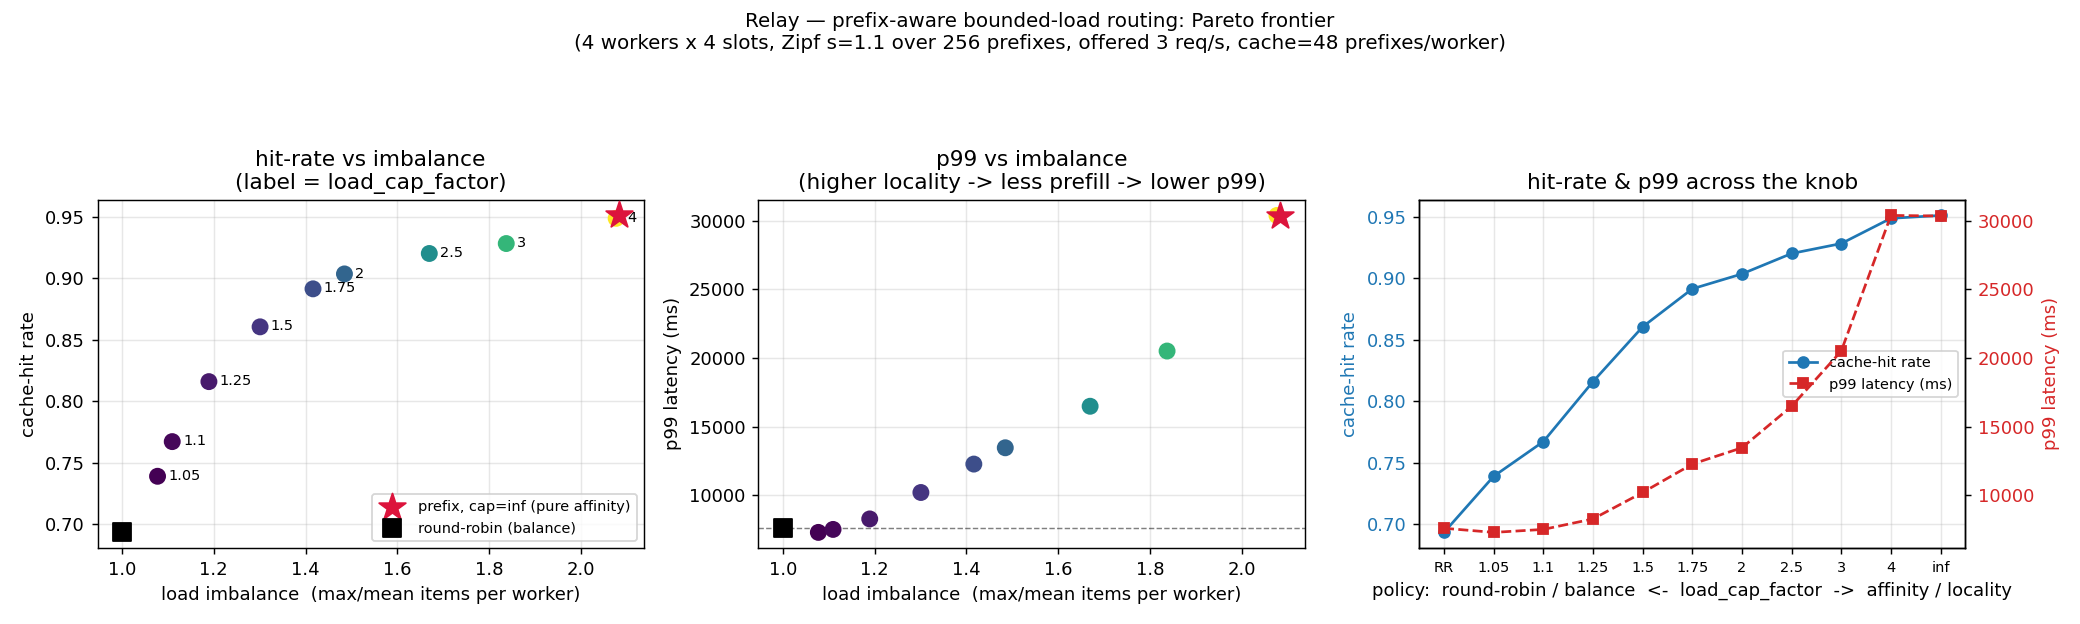
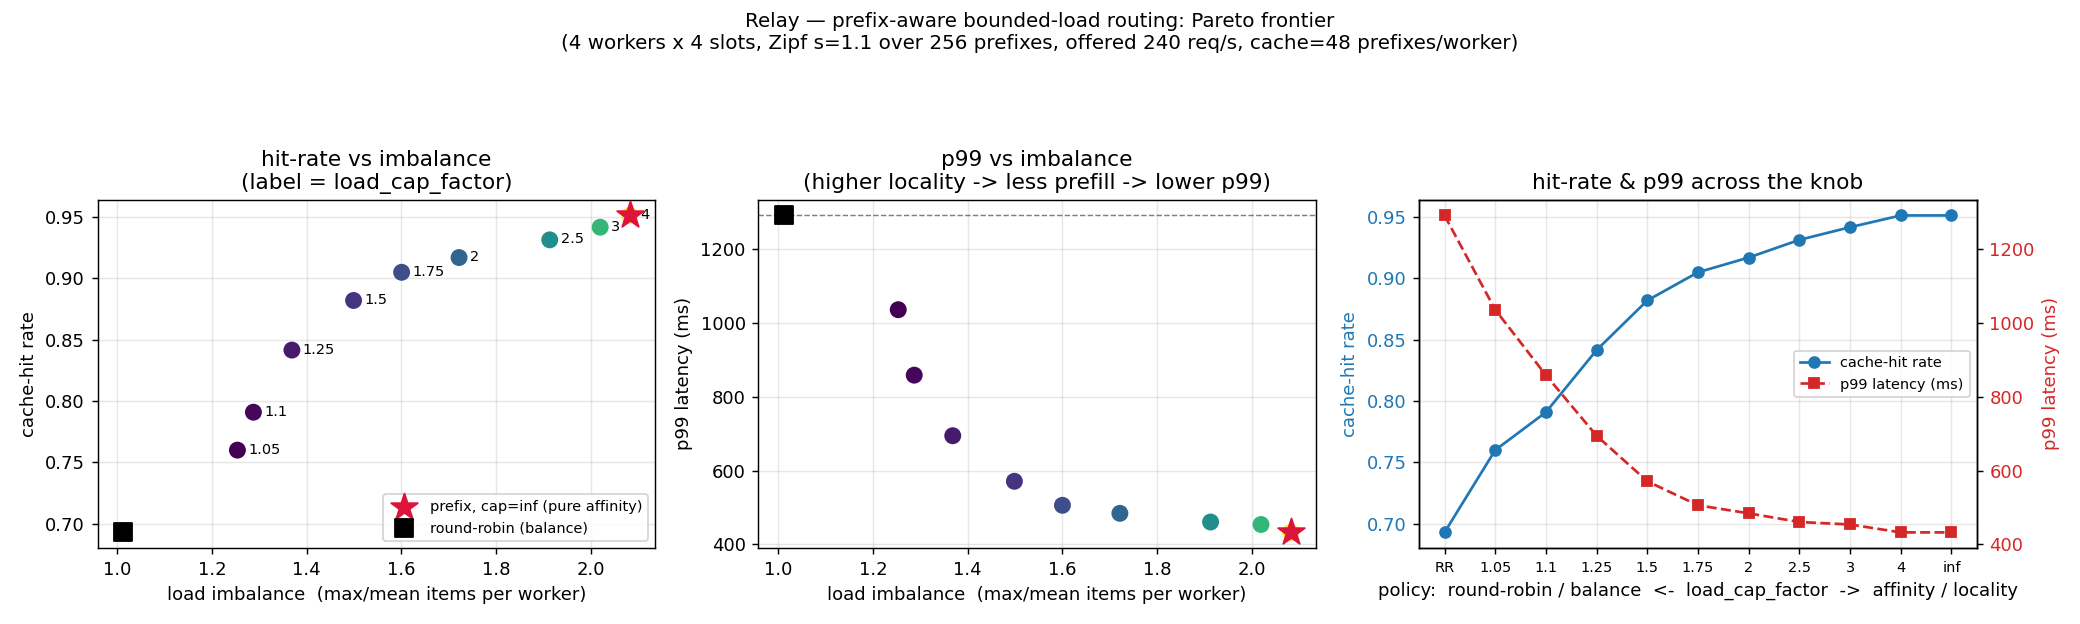
README: lead with measured crossover (530 ± 58 tok); frontier as synthetic support

diff --git a/README.md b/README.md
@@ -1,64 +1,96 @@
 # Relay
-<<<<<<< HEAD
 
-A GPU inference-serving **control plane**: queue → schedule → batch → place → observe → autoscale. The lead feature is **prefix / KV-cache-aware routing under bounded load** — steering same-prefix requests to the same worker to reuse its KV cache, balanced by bounded-load consistent hashing so a hot prefix can't pin one worker. One knob (`load_cap_factor`) sweeps the whole policy space from pure cache affinity to round-robin, and the headline artifact is the **Pareto frontier** that knob traces between cache locality, load balance, and tail latency.
+A GPU inference-serving **control plane**: queue → schedule → batch → place → observe → autoscale. The lead feature is **prefix / KV-cache-aware routing under bounded load** — steering same-prefix requests to the worker that already holds their KV cache, balanced by **bounded-load consistent hashing** so a hot prefix can't pin one worker. One knob, `load_cap_factor`, sweeps the whole policy space from pure cache affinity to round-robin.
 
-Full design rationale, ADRs, and the one-month build plan are in [`DESIGN.md`](DESIGN.md).
+Design rationale, ADRs, and the decision records are in [`DESIGN.md`](DESIGN.md).
 
-## Headline result (real, reproducible, no GPU)
+## Headline result: *when* does cache-aware routing beat load balancing?
 
-Produced by the in-process virtual-time simulator (`bench/simulate.py`) over 30,000 requests with a calibrated cache-aware latency model, 4 workers, and a finite-Zipf (s=1.1) workload over 256 shared prefixes. Sweeping `load_cap_factor` from pure affinity toward round-robin:
+Cache-aware routing is not free — it trades **load balance** for **saved prefill**. So the real question isn't "is it faster" but "under what conditions." Relay answers it with a measured number.
+
+**Crossover ≈ 530 ± 58 shared-prefix tokens** (95% CI, 10/10 seeds crossed). Below it, decode dominates and plain round-robin wins; above it, prefill dominates and routing to the cached worker wins.
+
+Per-token costs are **measured on real hardware** — an Apple M2 (8 GB) serving `qwen2.5:0.5b` via Ollama, read from llama.cpp's own timing fields: **decode 30.4 ms/token, prefill 1.3 ms/token** (decode is ~23× costlier per token, which is the fact the crossover hinges on). The routing itself is **simulated** (virtual-time discrete-event sim driving the real router); the rates are real, the routing is modeled, and that line is not blurred anywhere in this repo.
+
+![Crossover and the locality/balance cost, mean ± 95% CI over 10 seeds](bench/results/crossover.png)
+
+| shared-prefix tokens | prefill (ms) | round-robin p99 | best-prefix p99 | speedup (95% CI) | winner |
+|---|---|---|---|---|---|
+| 128 | 168 | 5539 ms | 6899 ms | **0.80 ± 0.02×** | round-robin |
+| 256 | 337 | 5395 ms | 6217 ms | 0.87 ± 0.03× | round-robin |
+| **512** | 674 | 5617 ms | 5614 ms | **1.00 ± 0.02×** | **crossover** |
+| 1024 | 1348 | 6285 ms | 5691 ms | 1.11 ± 0.02× | prefix |
+| 2048 | 2695 | 7539 ms | 6489 ms | 1.16 ± 0.03× | prefix |
+| 4096 | 5390 | 10259 ms | 8891 ms | 1.16 ± 0.03× | prefix |
+| 8192 | 10781 | 16981 ms | 14570 ms | 1.17 ± 0.02× | prefix |
+
+- The **regimes are statistically real, not noise**: at 128 tokens the speedup CI sits entirely below 1.0 (round-robin genuinely wins); at 8192 it sits entirely above 1.0 (prefix genuinely wins). The error bars not straddling 1.0 are what license the claim that the technique *flips*.
+- The crossover is the *derived* quantity, so it gets its own CI: interpolated per seed, then aggregated → **530 ± 58 tokens**, and it appeared in **every** replicate (10/10), so the crossover is a phenomenon, not a seed artifact.
+- The **cost side is visible in the same run**: as prefix length grows, affinity buys cache hits (**0.82 → 0.95**) by spending load balance (**imbalance 1.15 → 2.07**), while round-robin stays flat at ~1.0. That trade *is* the mechanism.
+
+The takeaway is the *condition*, not the number: KV-cache-aware routing earns its imbalance cost only once the shared prefix is long enough that prefill is the bottleneck — the RAG / shared-system-prompt regime. On short chat prompts it is a net loss, and a router should load-balance there. Reproduce: `PYTHONPATH=. python bench/crossover.py` (reads `bench/results/calibration.json`; `--seeds N`, `--output-tokens K`). Full data + CIs: [`bench/results/CROSSOVER.md`](bench/results/CROSSOVER.md).
+
+## The mechanism
+
+A consistent-hash ring with virtual nodes (`relay_core/hashing.py`) maps each prefix to an ordered worker preference list; adding/removing a worker remaps only O(K/N) keys, so an autoscale event doesn't cold-flush every cache. The router (`services/scheduler/router.py`) walks the ring from the prefix's position and takes the first worker under a load cap proportional to the live fleet average:
+
+```python
+cap = cap_factor * max(avg_load, 1.0)        # one knob; ∞ = pure affinity, →1 = round-robin
+for wid in ring.walk(prefix_hash):           # affinity owner first, then spillover order
+    if load(w) < cap and admit(w):
+        return w
+```
+
+A structural bonus falls out for free: a hot prefix that overflows its owner always spills to the *same* ring successor, so the successor's cache warms too — bounded replication of hot prefixes, no extra code. Bounded-load consistent hashing is Google's published technique; the contribution here is applying it to KV-cache routing and measuring when it pays.
+
+## Supporting result: the locality/balance Pareto frontier
+
+Sweeping `load_cap_factor` over a **synthetic latency model** (30,000 requests, 4 workers, finite-Zipf s=1.1 over 256 shared prefixes) traces the full trade the crossover samples one slice of:
 
 | policy | cap | cache-hit | p99 | load imbalance |
 |---|---|---|---|---|
-| round-robin | — | **69.1%** | **1436 ms** | 1.01× |
-| bounded (knee) | 1.5 | **88.4%** | **559 ms** | 1.47× |
-| pure affinity | ∞ | **95.1%** | **440 ms** | 2.08× |
+| round-robin | — | 69.3% | 1292 ms | 1.01× |
+| bounded (knee) | 1.5 | 88.2% | 571 ms | 1.50× |
+| pure affinity | ∞ | 95.1% | 433 ms | 2.08× |
 
-- Cache-hit rate climbs from **69% → 95%** as routing shifts from balance to affinity.
-- p99 latency drops **3.3×** (1436 → 440 ms) — cache hits skip the ~160 ms prefill.
-- The cost is load imbalance (1.01× → 2.08×), the other axis of the frontier.
-- **Recommended operating point — the knee at `load_cap_factor = 1.5`:** 88% hit-rate and a **2.6×** p99 reduction for only 1.47× imbalance.
+Across the sweep, cache-hit climbs **69% → 95%** and p99 drops **~3×** (1292 → 433 ms) as routing shifts from balance to affinity, paid for in load imbalance (1.01× → 2.08×). The knee at `cap = 1.5` captures most of the latency win for far less imbalance — the practical operating point. This frontier uses the *synthetic* calibration (illustrative shape); the crossover above is the *measured-rate* result (the honest generalization). Regenerate with `make calibrate && make bench`. Full sweep + per-worker breakdown: [`bench/results/RESULTS.md`](bench/results/RESULTS.md).
 
-![Pareto frontier](bench/results/frontier.png)
+## How the numbers were produced
 
-Full sweep, per-worker locality breakdown, exact setup, and a documented negative finding are in [`bench/results/RESULTS.md`](bench/results/RESULTS.md).
+- **A simulator that runs the real code.** `bench/simulate.py` imports the production router and deadline batch former *unchanged* and drives them over a virtual clock — open-system Poisson arrivals, warmup excluded, so p99 is meaningful and a 30k-request sweep finishes in seconds.
+- **A workload that doesn't cheat.** Prefix routing does nothing on uncorrelated prompts. Traffic is a finite Zipfian pool of shared prefixes (exact inverse-CDF; reported skew is the real skew), with pool size, skew, and prefix/suffix lengths all disclosed.
+- **Calibration from the engine's own mouth.** Per-token costs come from llama.cpp's `prompt_eval_duration` / `eval_duration` fields on the M2 — not a guess. The fixed per-request overhead `alpha` is a clean constant, *not* the noisy fitted intercept (which on an 8 GB box under load is mostly thrashing artifact); that choice is stated in the output.
 
-> **A negative result worth keeping.** Forming batches globally and then routing by the batch head's prefix yields *no* locality — a globally-formed batch mixes prefixes, so whichever worker takes it must prefill all of them. Locality only materializes when routing happens **per request at admission** into per-worker queues, which is how production prefix-aware schedulers (SGLang, vLLM-router) are organized. That is the topology measured here.
+## What went wrong (kept on purpose)
+
+- **A reproducible null result.** The first topology formed batches globally then routed by the batch head's prefix → cache-hit identical across every policy, because a globally-formed batch mixes prefixes, so routing it only changes *which* worker pays the prefill, not *whether* it's paid. Fix: route per request at admission into per-worker queues, each worker batching its own queue — the topology SGLang's router and the vLLM Router use. Details in [`bench/results/RESULTS.md`](bench/results/RESULTS.md).
+- **A calibration bug worth ~200×.** The first Ollama calibration faked "a batch of b" with b concurrent HTTP requests; on single-slot Ollama those serialize, and the fit misread queueing as a 1,710 ms per-item decode cost (53-minute p99s — an unstable queue, not a result). Fix: read the engine's real per-token timing fields and derive the constants, unit-tested against canned timings to R²=1.0.
 
 ## What runs where
 
-This is a deliberately month-scale distributed-systems project. The parts split into three honesty tiers:
+Three honesty tiers:
 
-**Runs now, locally, for free (no GPU, no services):**
-- The entire algorithmic core: consistent-hash ring, prefix router, deadline batch former, cache-aware + plain mock engines, Zipfian workload, calibration, and the benchmark sweep that produces the frontier above.
-- The full unit suite (64 tests).
+**Runs now, locally, free (no GPU, no services):** the entire algorithmic core — consistent-hash ring, prefix router, deadline batch former, cache-aware + plain mock engines, Zipfian workload, calibration, and the sweeps that produce both results above — plus the full unit suite (75 tests).
 
 ```bash
-make install        # core + bench deps (numpy, matplotlib, pandas, scipy)
-make test           # 64 unit tests, ~2s
-make bench          # produces bench/results/{frontier.csv,frontier.png,RESULTS.md}
-make bench-quick    # faster 8k-request smoke sweep
-make calibrate      # fits MockEngine alpha/beta (synthetic if no Ollama)
+make install        # core + bench deps (numpy, matplotlib, pandas)
+make test           # 75 unit tests, ~1s
+make bench          # Pareto sweep        → bench/results/{frontier.csv,png,RESULTS.md}
+make calibrate      # fit latency constants (add --ollama for real hardware)
+PYTHONPATH=. python bench/crossover.py    # seed-replicated crossover → crossover.{csv,png}, CROSSOVER.md
 ```
 
-**Written faithfully, needs external services to stand up (Redis, Postgres, gRPC):**
-- Gateway (FastAPI: `/v1/infer`, `/v1/jobs/{id}`, SSE stream, `/v1/models`, `/healthz`, `/readyz`, `/metrics`; Bearer auth; atomic Redis-Lua token-bucket rate limiting; idempotency keys).
-- Scheduler (gRPC server, admission/backpressure, Redis-Streams queue with `XAUTOCLAIM` recovery, dispatch over worker lease streams).
-- Worker harness (pull-based gRPC leasing → backpressure) and the Ollama / Torch-MPS engines.
-- One-command local stack and a k3d/Helm deploy:
+**Written faithfully, needs external services (Redis, Postgres, gRPC):** gateway (FastAPI: `/v1/infer`, `/v1/jobs/{id}`, SSE stream, `/v1/models`, `/healthz`, `/readyz`, `/metrics`; Bearer auth; atomic Redis-Lua token-bucket; idempotency keys); scheduler (gRPC server, admission/backpressure, Redis-Streams queue with `XAUTOCLAIM` recovery, dispatch over worker lease streams); worker harness (pull-based gRPC leasing → backpressure) and the Ollama / Torch-MPS engines.
 
 ```bash
 make compose-up     # redis + postgres + scheduler + gateway + 4 mock workers + prometheus + grafana
-# Grafana at :3000 (anon admin), Prometheus at :9090, gateway at :8080
 make helm-install   # deploy to a k3d cluster; workers autoscale on queue depth
 make proto          # generate gRPC stubs (buf) into services/_gen before running services live
 ```
 
-The heavy imports (FastAPI, redis, asyncpg, grpc, torch) are deferred behind graceful fallbacks, so every module still imports without those packages — that is why `make test` runs anywhere.
+Heavy imports (FastAPI, redis, asyncpg, grpc, torch) are deferred behind graceful fallbacks, so every module imports without those packages — that is why `make test` runs anywhere.
 
-**CUDA-only validation step (rented multi-GPU box):**
-- `VLLMEngine` confirms the prefix-routing win on a *real* KV cache and produces the real tokens/s number. Same `Engine` interface, so only the worker image changes. vLLM's prefix-caching flags and cache-hit metric names drift between versions and are marked "verify on arrival" in the code (`services/worker/engines/vllm.py`). Per the design doc, this step only *confirms* the result — it never *produces* it.
+**CUDA-only validation step (rented multi-GPU box, optional):** `VLLMEngine` would confirm the routing win on a *real* KV cache and produce real tokens/s. Same `Engine` interface, so only the worker image changes. Kept optional and conditional — it raises confidence in the simulator's eviction/batching assumptions; it does not produce the result. The cost/benefit is recorded in [`DESIGN.md`](DESIGN.md).
 
 ## Architecture
 
@@ -76,36 +108,45 @@ The heavy imports (FastAPI, redis, asyncpg, grpc, torch) are deferred behind gra
                                   Grafana   +   HPA (autoscales workers on relay_queue_depth)
 ```
 
-- **Routing depth** lives in `services/scheduler/router.py` + `relay_core/hashing.py`.
-- **Batching** in `services/scheduler/batch_former.py` (priority = a tighter latency budget; provable no-starvation bound).
-- **Autoscaling** on the custom `relay_queue_depth` metric (not CPU) via prometheus-adapter — `deploy/k8s/prometheus-adapter.yaml`, `deploy/helm/relay/templates/worker.yaml`.
-- **Metrics** named once in `relay_core/metrics.py` (DESIGN.md §15), instrumented from the start.
+- **Routing depth**: `services/scheduler/router.py` + `relay_core/hashing.py`.
+- **Batching**: `services/scheduler/batch_former.py` (priority = a tighter latency budget; no-starvation dispatch trigger).
+- **Autoscaling** on the custom `relay_queue_depth` metric (not CPU) via prometheus-adapter.
+- **Metrics** named once in `relay_core/metrics.py`, instrumented from the start.
 
 ## Repo map
 
 ```
-relay_core/         types, hashing ring, queue, metrics  (the shared, transport-agnostic core)
+relay_core/         types, hashing ring, queue, metrics  (shared, transport-agnostic core)
 services/
   gateway/          FastAPI app, schemas, token-bucket limiter, Redis backplane
   scheduler/        router, batch former, admission, dispatch, Redis-Streams queue, gRPC server
   worker/           harness + engines/{mock, cache_aware_mock, ollama, torch_mps, vllm}
 proto/relay/v1/     worker.proto (buf lint/breaking in CI)
-bench/              workload, calibrate, simulate, run  →  results/ (frontier + RESULTS.md)
+bench/              workload, calibrate, simulate, run, crossover  →  results/
 deploy/             compose/, postgres/, redis/, helm/relay/, k8s/ (HPA + prometheus-adapter)
-dashboards/         relay.json (Grafana, keyed to the §15 metric names)
-tests/unit/         64 tests covering ring, router, former, engines, workload, limiter, admission
+dashboards/         relay.json (Grafana, keyed to the metric names)
+tests/unit/         75 tests: ring, router, former, engines, workload, limiter, admission
 ```
 
 ## Tests
 
 ```bash
-make test           # PYTHONPATH=. python -m pytest tests/unit -q  →  64 passed
+make test           # PYTHONPATH=. python -m pytest tests/unit  →  75 passed
 ```
 
-The unit suite pins the properties the result depends on: the ring's minimal-disruption guarantee, the router's affinity-vs-spill behaviour across the cap, the former's no-starvation dispatch trigger, the cache engine's exact hit/miss latency law, and the workload's distribution and prefix-hash stability.
+The suite pins the properties the result depends on: the ring's minimal-disruption guarantee, the router's affinity-vs-spill behaviour across the cap, the former's no-starvation dispatch trigger, the cache engine's exact hit/miss latency law, and the workload's distribution and prefix-hash stability.
 
-## Status
+## Limitations
 
-The core algorithmic result is built, executed, and verified with real artifacts. The surrounding gateway/scheduler/worker/proto/deploy are substantive, faithful implementations of `DESIGN.md`; standing them up live requires Redis/Postgres/gRPC (local) and a CUDA box (vLLM validation), per the tiers above.
-=======
->>>>>>> 73566137212b68f57b1b1cea0be83a6d59bec08b
+1. **The routing benefit is simulated.** Latency is calibrated to real M2 rates, but multi-worker routing hasn't run against a real engine with separately-evicting caches (one machine = one cache = nothing to route between). The optional vLLM run closes this.
+2. **Cache eviction is modeled** (LRU at fixed capacity), not validated against a real engine under memory pressure — the long-prefix end of the crossover is most exposed to this.
+3. **The batching model is linear** (`alpha + beta·b`); real continuous batching bends the curve and chunks prefill.
+4. **Single-prefix-hash affinity, not longest-prefix (radix) matching**, and prefixes are hashed on character blocks while real engines cache token blocks.
+
+## Roadmap
+
+Parked, in order: (1) characterize the crossover *surface* — sweep decode/prefill ratio and skew, and the cache-eviction-pressure regime the literature flags; (2) token-block hashing, then longest-prefix (radix) routing, SGLang-style; (3) the optional 2-GPU vLLM validation; (4) prefill/decode disaggregation — the measured 30.4-vs-1.3 ms/token split is exactly its motivation, and the vLLM Router already supports it.
+
+## Where this sits
+
+Bounded-load consistent hashing is published (Google); prefix-aware routing ships today in the vLLM Router, SGLang's router, Ray Serve's `PrefixCacheAffinityRouter`, and llm-d; DéjàVu and kvcached attack the adjacent KV-cache layers. The contribution here is not a new algorithm — it's a correct from-scratch implementation plus a rigorous measurement of *when the technique pays off*.

diff --git a/bench/results/RESULTS.md b/bench/results/RESULTS.md
@@ -6,14 +6,14 @@
 
 Sweeping the router's single knob `load_cap_factor` from pure affinity (cap = inf) toward round-robin traces a clean Pareto frontier between **KV-cache locality** and **load balance**:
 
-- **Cache-hit rate** rises from **69.4%** (round-robin) to **95.1%** (pure affinity).
-- **p99 latency** falls from **7612 ms** (round-robin) to **30347 ms** (pure affinity) — a **0.3x** reduction — because cache hits skip the 634 ms prefill.
-- The **cost** is load imbalance: from **1.00x** (round-robin) to **2.08x** (pure affinity, where the hottest prefix pins its traffic to one worker).
+- **Cache-hit rate** rises from **69.3%** (round-robin) to **95.1%** (pure affinity).
+- **p99 latency** falls from **1292 ms** (round-robin) to **433 ms** (pure affinity) — a **3.0x** reduction — because cache hits skip the 160 ms prefill.
+- The **cost** is load imbalance: from **1.01x** (round-robin) to **2.08x** (pure affinity, where the hottest prefix pins its traffic to one worker).
 
 ### The knee (recommended operating point)
 
 At **`load_cap_factor = 1.5`** the bounded-load policy captures most of the locality benefit for a modest imbalance cost:
-- cache-hit **86.0%**, p99 **10215 ms** (**0.7x** lower than round-robin), imbalance **1.30x** (**1.30x** the round-robin baseline).
+- cache-hit **88.2%**, p99 **571 ms** (**2.3x** lower than round-robin), imbalance **1.50x** (**1.48x** the round-robin baseline).
 
 ![Pareto frontier](frontier.png)
 
@@ -21,17 +21,17 @@ At **`load_cap_factor = 1.5`** the bounded-load policy captures most of the loca
 
 | policy | cap | hit | p50 | p95 | p99 | thrpt | imbal | batch | util |
 |---|---|---|---|---|---|---|---|---|---|
-| round_robin | — | 0.694 | 4059 | 6046 | 7612 | 3 | 1.00 | 1.0 | 0.67 |
-| prefix | 1.05 | 0.739 | 4029 | 5863 | 7310 | 3 | 1.08 | 1.0 | 0.67 |
-| prefix | 1.1 | 0.767 | 4024 | 5971 | 7527 | 3 | 1.11 | 1.0 | 0.66 |
-| prefix | 1.25 | 0.816 | 4049 | 6380 | 8290 | 3 | 1.19 | 1.1 | 0.65 |
-| prefix | 1.5 | 0.860 | 4097 | 7466 | 10215 | 3 | 1.30 | 1.1 | 0.64 |
-| prefix | 1.75 | 0.891 | 4169 | 8923 | 12284 | 3 | 1.42 | 1.1 | 0.62 |
-| prefix | 2 | 0.903 | 4212 | 9835 | 13471 | 3 | 1.48 | 1.2 | 0.61 |
-| prefix | 2.5 | 0.920 | 4310 | 12035 | 16494 | 3 | 1.67 | 1.2 | 0.60 |
-| prefix | 3 | 0.928 | 4423 | 14805 | 20514 | 3 | 1.84 | 1.3 | 0.58 |
-| prefix | 4 | 0.949 | 4856 | 21442 | 30387 | 3 | 2.08 | 1.5 | 0.55 |
-| prefix | inf | 0.951 | 4843 | 21330 | 30347 | 3 | 2.08 | 1.5 | 0.55 |
+| round_robin | — | 0.693 | 454 | 1033 | 1292 | 240 | 1.01 | 6.1 | 0.89 |
+| prefix | 1.05 | 0.760 | 272 | 751 | 1037 | 239 | 1.25 | 4.8 | 0.74 |
+| prefix | 1.1 | 0.791 | 243 | 642 | 859 | 240 | 1.29 | 4.6 | 0.67 |
+| prefix | 1.25 | 0.842 | 198 | 500 | 695 | 241 | 1.37 | 4.3 | 0.56 |
+| prefix | 1.5 | 0.882 | 112 | 424 | 571 | 241 | 1.50 | 4.2 | 0.46 |
+| prefix | 1.75 | 0.905 | 105 | 390 | 506 | 241 | 1.60 | 4.2 | 0.41 |
+| prefix | 2 | 0.917 | 102 | 340 | 484 | 241 | 1.72 | 4.2 | 0.38 |
+| prefix | 2.5 | 0.931 | 101 | 319 | 461 | 241 | 1.91 | 4.2 | 0.35 |
+| prefix | 3 | 0.942 | 99 | 314 | 454 | 241 | 2.02 | 4.3 | 0.32 |
+| prefix | 4 | 0.951 | 98 | 309 | 433 | 241 | 2.08 | 4.3 | 0.30 |
+| prefix | inf | 0.951 | 98 | 309 | 433 | 241 | 2.08 | 4.3 | 0.30 |
 
 ## Per-worker locality (why imbalance is the cost)
 
@@ -39,17 +39,17 @@ Round-robin spreads every prefix across all workers, so each worker's cache-hit 
 
 | worker | round-robin hit | round-robin items | affinity hit | affinity items |
 |---|---|---|---|---|
-| w0 | 0.699 | 6745 | 0.969 | 4839 |
-| w1 | 0.691 | 6742 | 0.967 | 14055 |
-| w2 | 0.700 | 6756 | 0.896 | 4046 |
-| w3 | 0.684 | 6757 | 0.928 | 4060 |
+| w0 | 0.689 | 6727 | 0.970 | 4839 |
+| w1 | 0.694 | 6695 | 0.967 | 14055 |
+| w2 | 0.691 | 6750 | 0.897 | 4046 |
+| w3 | 0.698 | 6828 | 0.928 | 4060 |
 
 ## Setup (for reproducibility)
 
-- **Engine model:** CacheAwareMockEngine, latency `(alpha + beta*b + prefill*distinct_missed_prefixes) * jitter` with alpha=1834.9 ms, beta=1947.8 ms, prefill=634 ms, lognormal jitter sigma=0.15. alpha/beta provenance: calibration.json (source=ollama:qwen2.5:0.5b).
+- **Engine model:** CacheAwareMockEngine, latency `(alpha + beta*b + prefill*distinct_missed_prefixes) * jitter` with alpha=17.1 ms, beta=7.4 ms, prefill=160 ms, lognormal jitter sigma=0.15. alpha/beta provenance: calibration.json (source=synthetic).
 - **Fleet:** 4 workers x 4 concurrent batches, max batch 16, cache capacity 48 distinct prefixes per worker.
 - **Workload:** finite Zipf, s=1.1, pool=256 shared prefixes (800-char shared block + 48-char unique suffix); realized top-8 prefix mass = 51.9%.
-- **Arrivals:** Poisson, offered 3 req/s; 30,000 requests, first 3,000 excluded from steady-state metrics (cold-cache warmup).
+- **Arrivals:** Poisson, offered 240 req/s; 30,000 requests, first 3,000 excluded from steady-state metrics (cold-cache warmup).
 - **Scheduling:** deadline batch former, default budget 50 ms (DESIGN.md §8.1); routing per request at admission into per-worker queues (DESIGN.md §8.2).
 - **Seeds:** workload=7, arrivals=11, engine=23. Every policy sees the identical request/arrival stream.
 